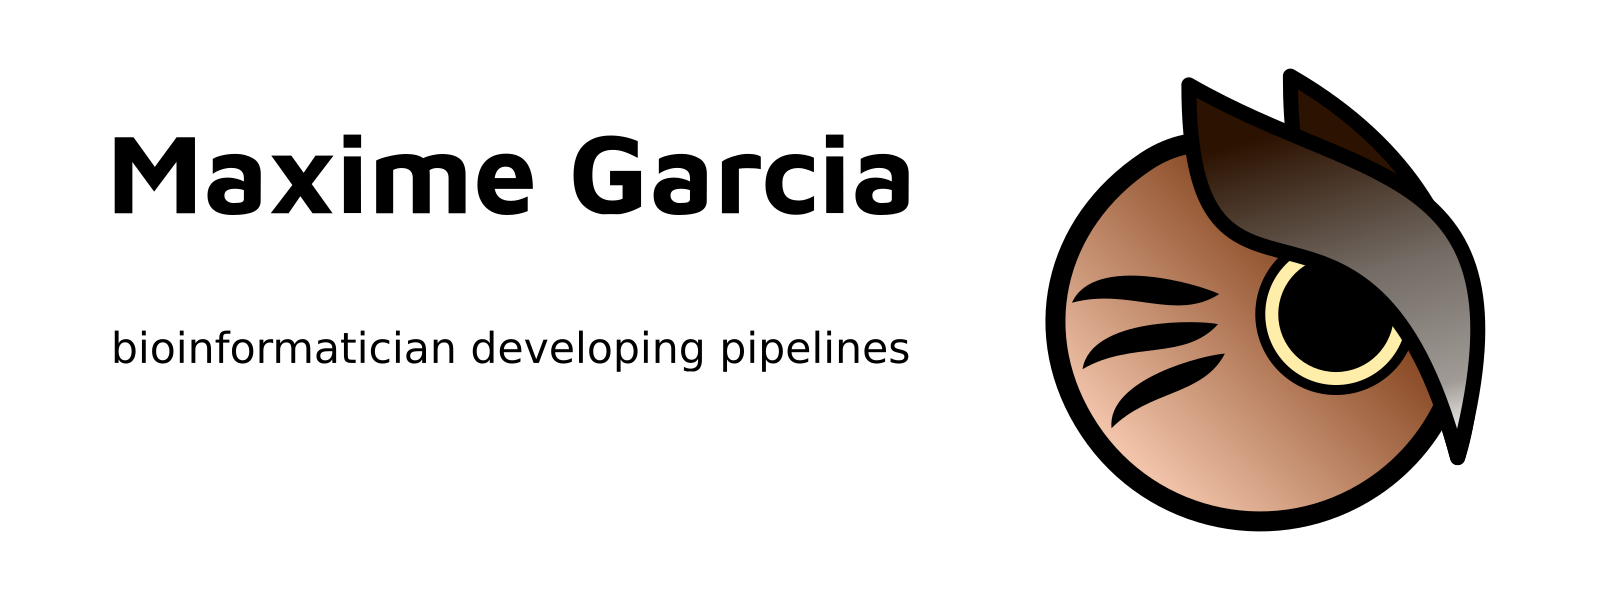
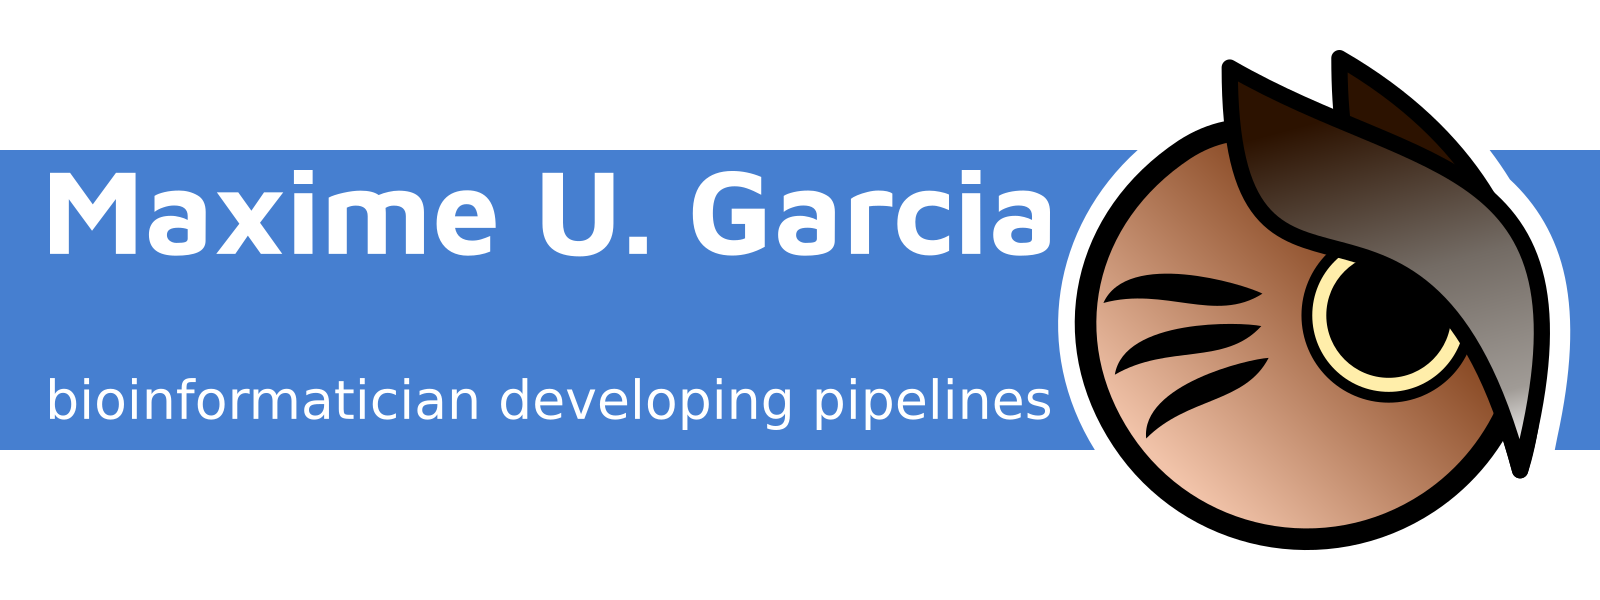
feat: improve dark and light background visibility

diff --git a/README.md b/README.md
@@ -1,15 +1,15 @@
-# Hi there, I'm Maxime 👋
+# Hi there, I'm Maxime U. Garcia👋
 
-![Maxime Garcia, Bioinformatician developing pipelines + an owl as a logo](https://raw.githubusercontent.com/MaxUlysse/MaxUlysse/master/header.png)
+![Maxime U. Garcia, Bioinformatician developing pipelines + an owl as a logo](https://raw.githubusercontent.com/maxulysse/maxulysse/master/header.png)
 
-- I'm a bioinformatician, from Marseille, working in Stockholm
+- I'm a bioinformatician, from Marseille :fr: , working in Stockholm :sweden:
 - I'm interested in Reproducible Research (and obviously open-source), Cancer, Automation, Containers, Data Integration, Visualization and much more...
 - I enjoy doing pipelines with [Nextflow](https://nextflow.io/), that are reproducible using Conda, Docker, Singularity... and can run anywhere, including AWS
 - I'm part of the core team that administrates the [@nf-core](https://github.com/nf-core/) community
 
 ## Find me around the web 🌎
 
-- I share the occasional blogpost and my presentations on my own Jekyll [website](https://maxulysse.github.io/)
+- I share the occasional blog post and my presentations on my own Jekyll [website](https://maxulysse.github.io/)
 - I sometimes share informations on [LinkedIn](https://www.linkedin.com/in/maxugarcia)
 - I keep track of my publications with [ORCID](https://orcid.org/0000-0003-2827-9261) and [Google Scholar](https://scholar.google.fr/citations?user=bzhsE6oAAAAJ)
 - I μblog, but mainly RT on [Twitter](https://twitter.com/gau/) or [Mastodon](https://scholar.social/@gau)
